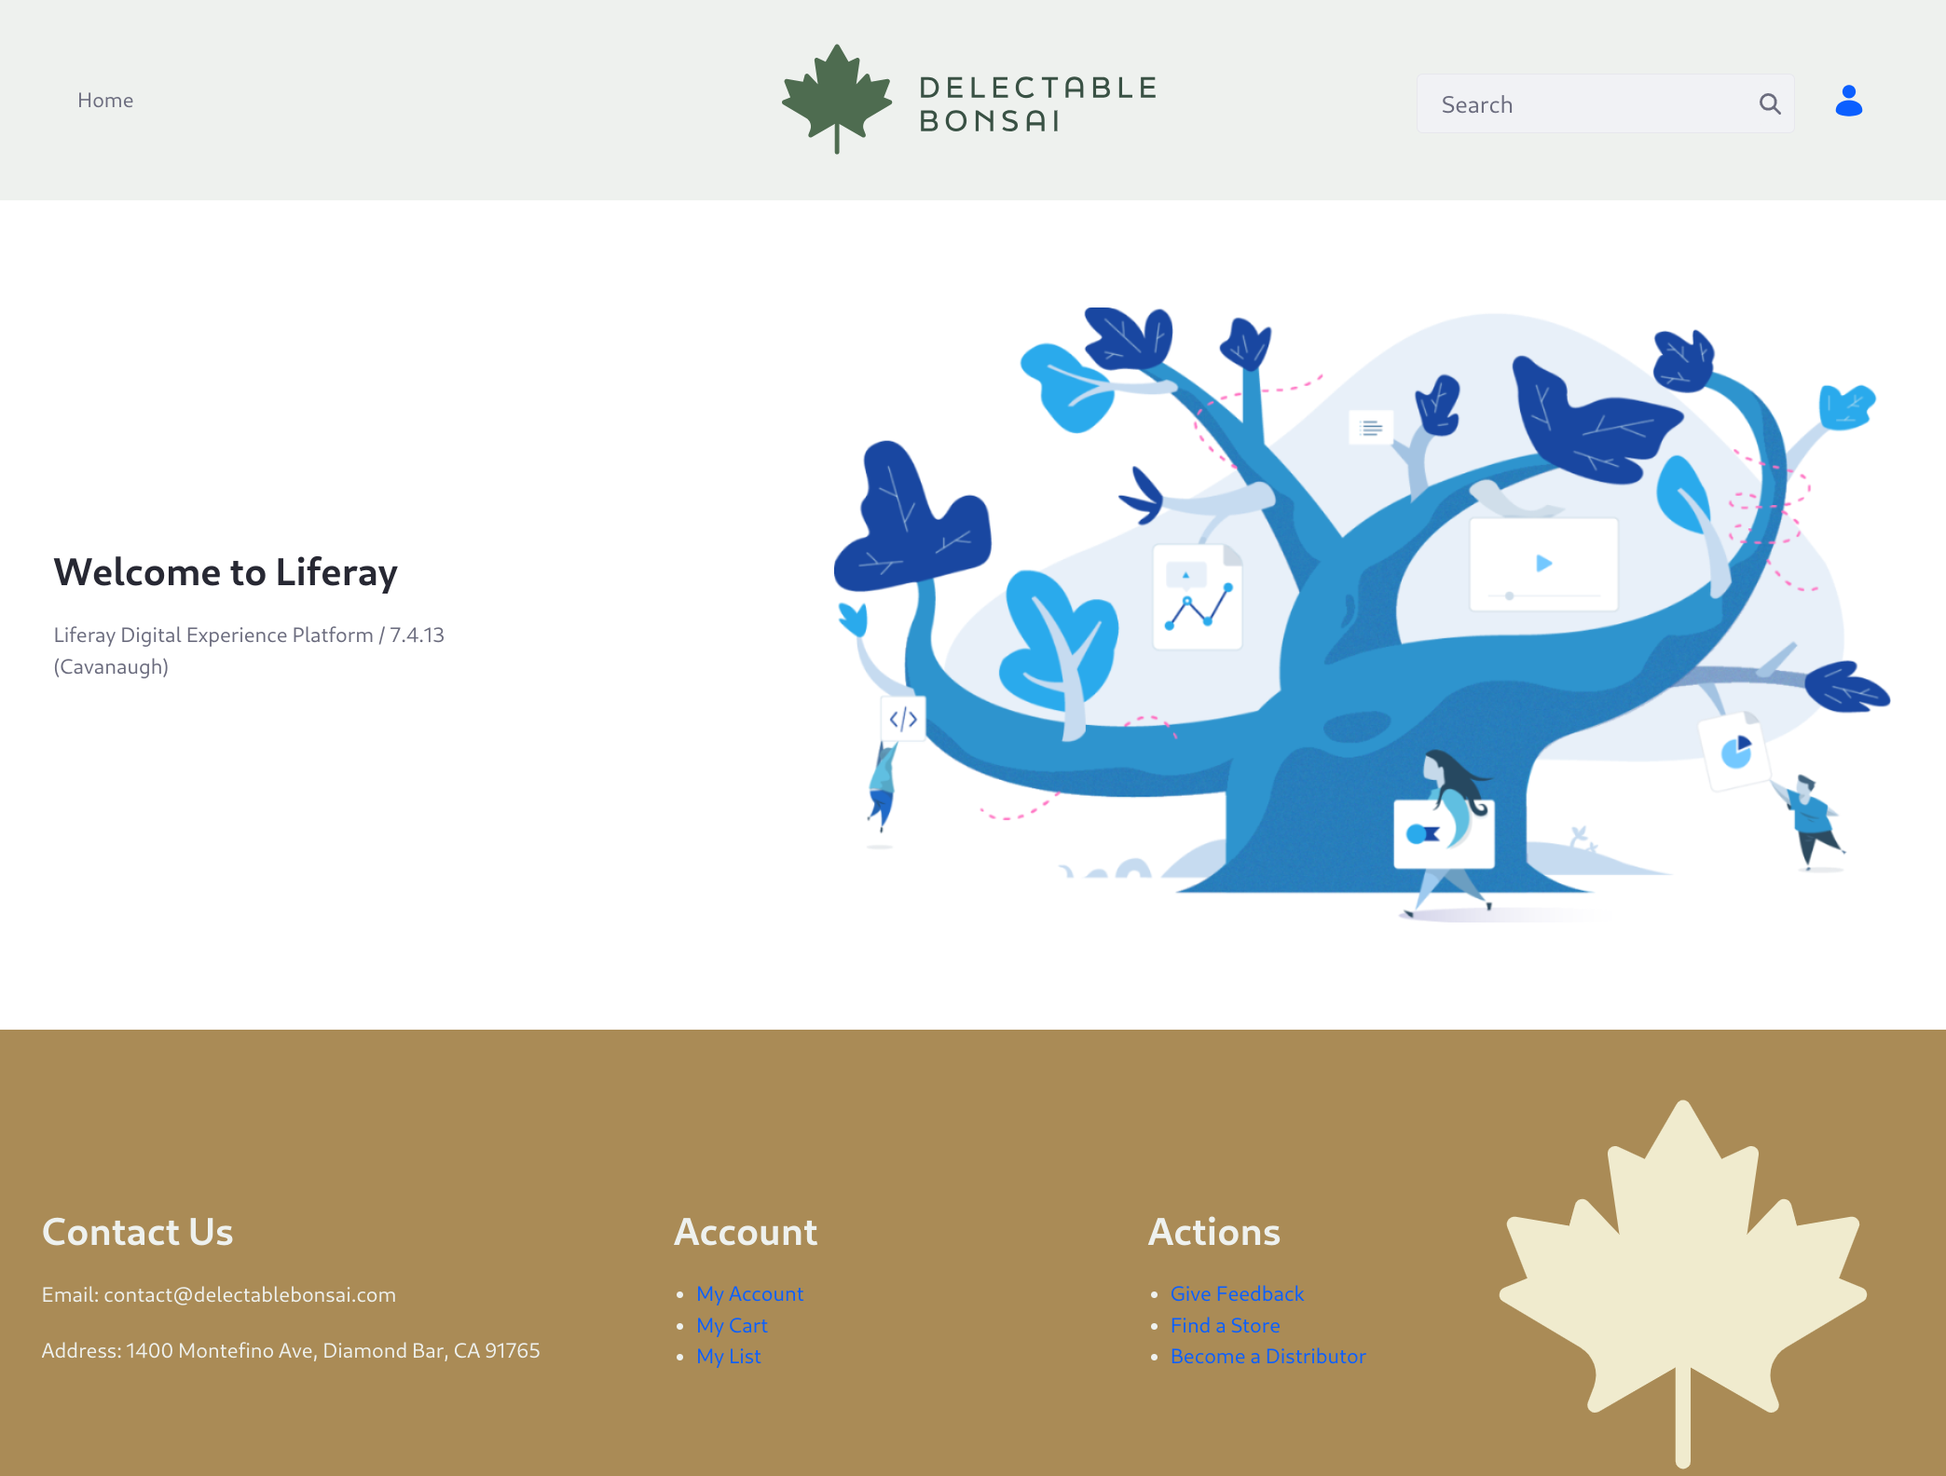
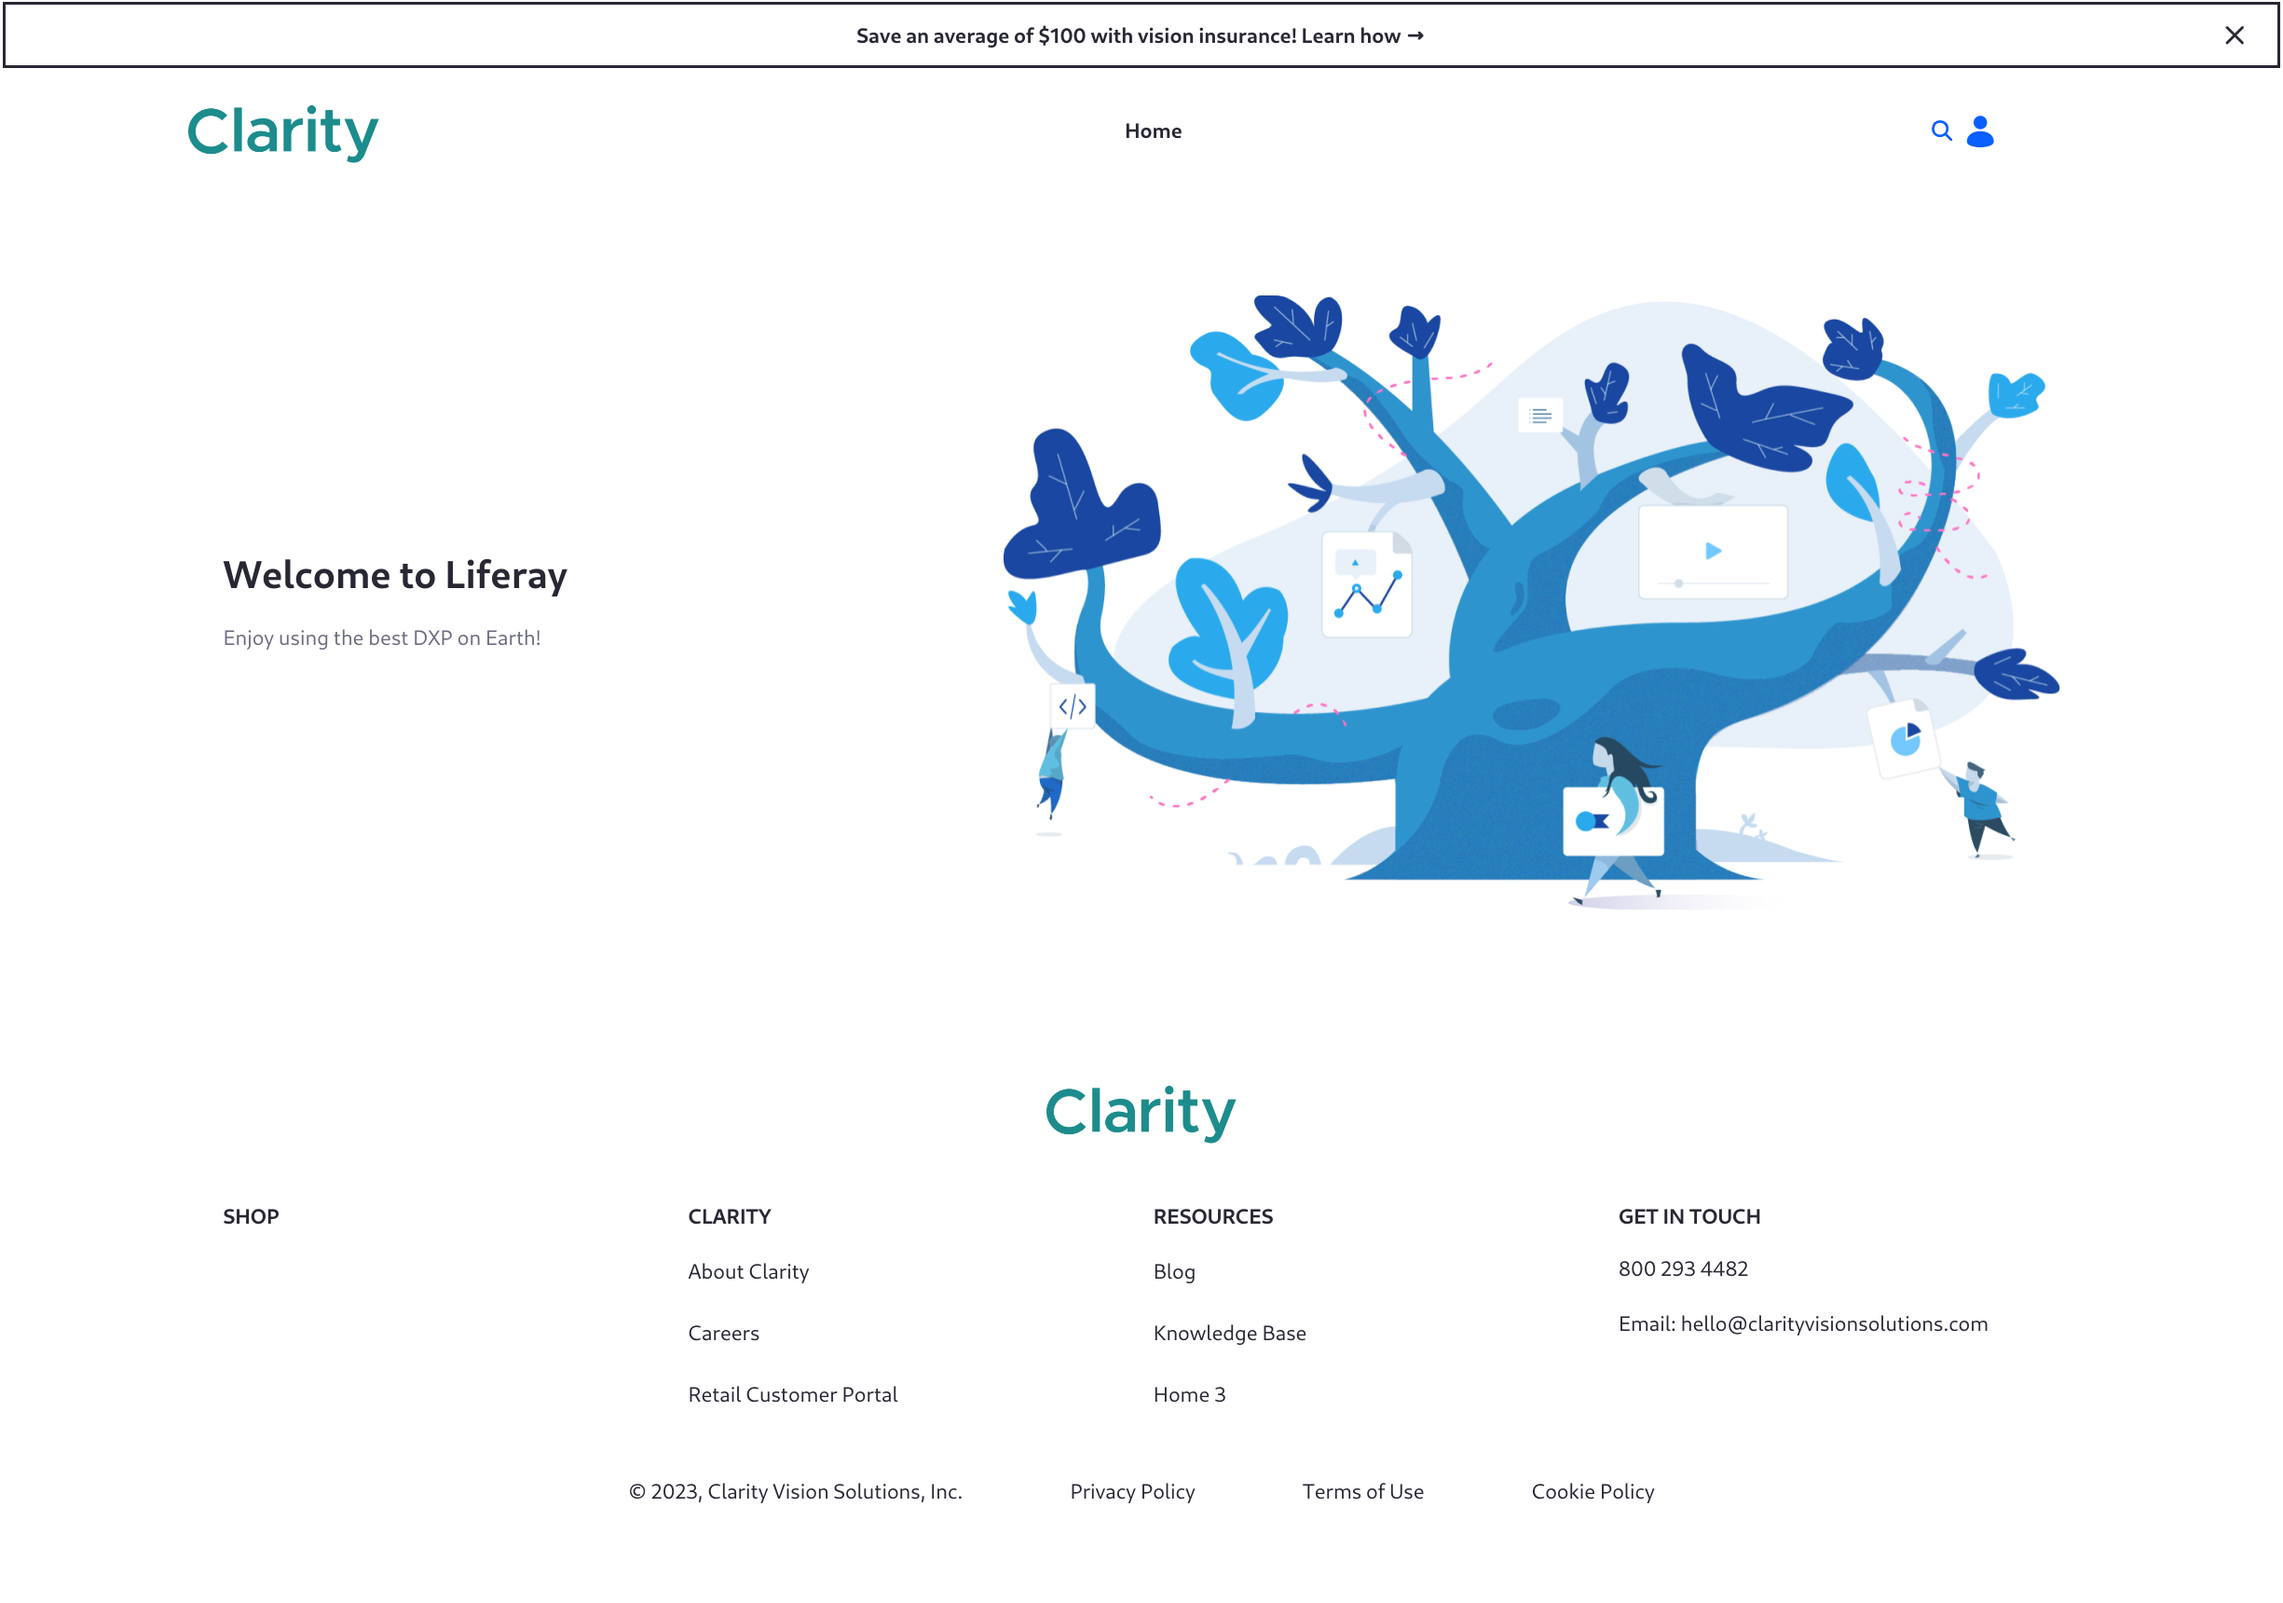
LRDOCS-12141 changing stuff to Clarity

diff --git a/docs/courses/latest/en/web-site-manager/creating-pages/defining-the-pages-header-and-footer.md b/docs/courses/latest/en/web-site-manager/creating-pages/defining-the-pages-header-and-footer.md
@@ -11,11 +11,13 @@ Clarity needs their own header and footer design, of course. At first the master
 
 1. Add the Master Page. Open the *Site Menu* (![Product Menu](../../images/icon-product-menu.png)), then click *Design* &rarr; *Page Templates*.
 
-1. Click *Add* (![Add](./../../images/icon-add.png)) and name the page _Del Bonsai MP_. <!-- Change this name to something Clarity-based. -Rich -->
+1. Click *Add* (![Add](./../../images/icon-add.png)) and name the page _Clarity MP_.
 
    The content page editor appears. Only one element is currently on the page, a drop zone. Clarity's header and footer should appear above and below the drop zone, respectively.
 
-1. In the Fragments and Widgets (![Fragments and Widgets](./../../images/icon-add-widget.png)) menu on the sidebar, drag _header-composition_ above the drop zone, then drag _footer-composition_ below the drop zone.
+1. In the Fragments and Widgets (![Fragments and Widgets](./../../images/icon-add-widget.png)) menu on the sidebar, drag _clarity-header-comp_ above the drop zone, then drag _clarity-footer-comp_ below the drop zone.
+
+   You imported these fragment compositions in [Importing Fragments and Resources](./importing-fragments-and-resources.md).
 
 1. Map the image fragment in the header to a logo. Open the browser (![Browser](../../images/icon-hierarchy.png)), expand the Header Container element, and continue expanding elements until you get to the middle grid module's image fragment.
 
@@ -23,11 +25,11 @@ Clarity needs their own header and footer design, of course. At first the master
 
 1. Click the image fragment to open its settings, then click _image-square_ to set the source of the image.
 
-1. Choose direct source selection, then choose the image _DB Green - 1W_. <!-- Looks like all of these need to be changed to Clarity, so I'll stop mentioning it and assume you know. -Rich -->
+1. Choose direct source selection, then choose the image _clarity-logo_.
 
    ![Set the image to use in the header.](./defining-the-pages-header-and-footer/images/05.png)
 
-1. Using the same procedure, add the _DB Green - 3_ image to the footer's image fragment.
+1. Using the same procedure, add the _clarity-logo_ image to the footer's image fragment.
 
    ![Set the image to use in the footer.](./defining-the-pages-header-and-footer/images/06.png)
 
@@ -43,7 +45,7 @@ The master page is in place, so it's time to configure Liferay to use it on the 
 
 1. Go to the Home page and click *Edit* (![Edit](../../images/icon-edit.png)) in the administrative header.
 
-1. In the content page editor, open the *Page Design Options* sidebar menu (![Page Design Options](../../images/icon-format.png)) and select _Del Bonsai MP_.
+1. In the content page editor, open the *Page Design Options* sidebar menu (![Page Design Options](../../images/icon-format.png)) and select _Clarity MP_.
 
 1. Click _Publish_.
 

diff --git a/docs/courses/latest/en/web-site-manager/creating-pages/completing-the-site-structure.md b/docs/courses/latest/en/web-site-manager/creating-pages/completing-the-site-structure.md
@@ -3,8 +3,6 @@ uuid: 241798cf-f23b-47c9-af0f-23d3f231a1f4
 ---
 # Completing the Site Structure
 
-<!-- This exercise is too long; we should break it up into two. -Rich --> 
-
 Now that the home page is in place and the master page is able to define the header and footer, Clarity needs some additional pages to fill out its site structure: 
 
 - Home
